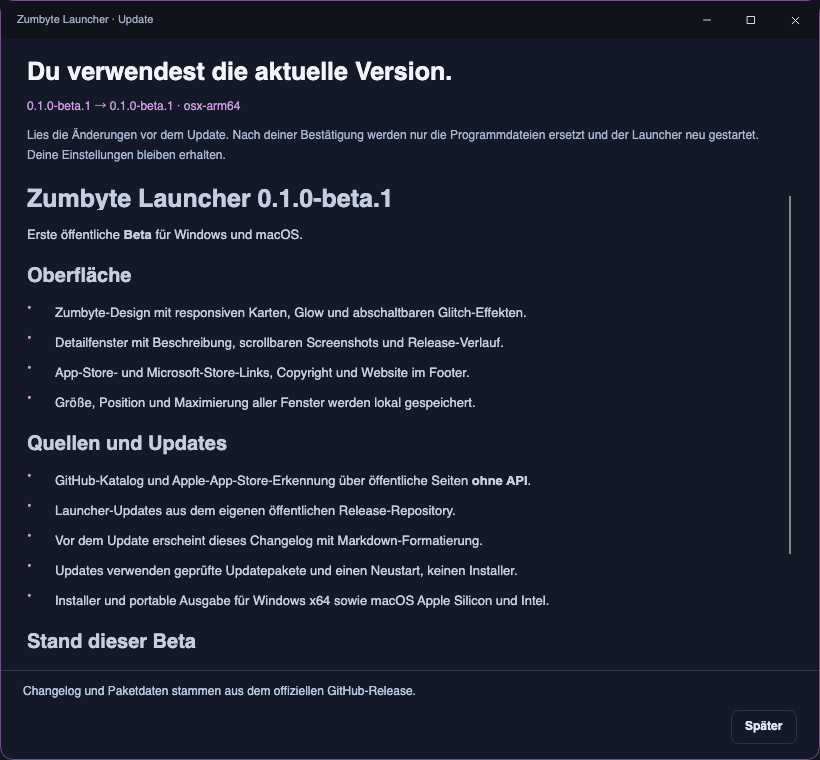
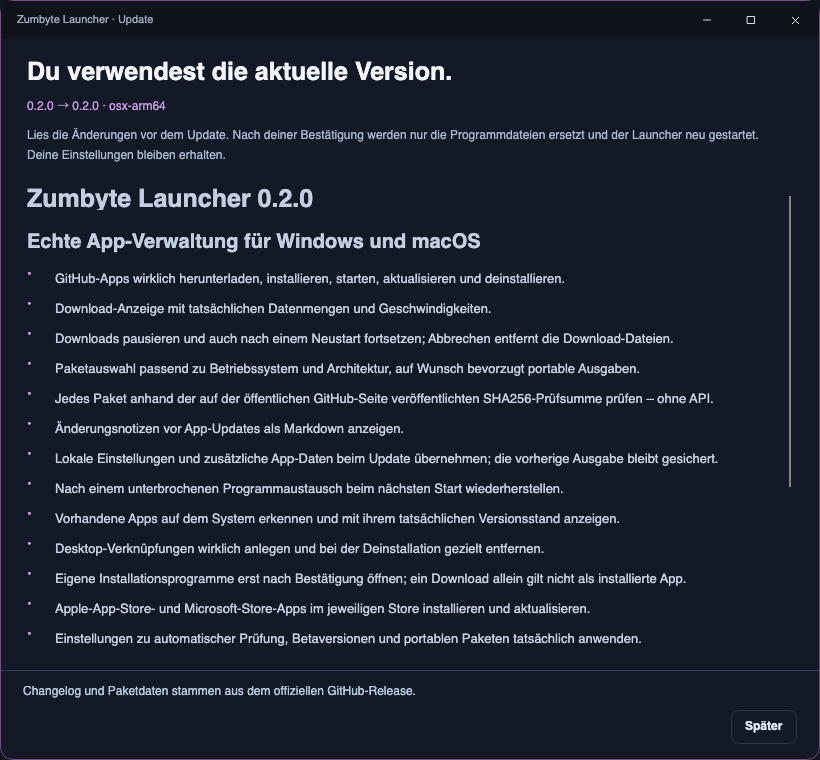
Document real app management in launcher 0.2.0

Changed region(s): [[0.0305, 0.3026, 0.8841, 0.8776], [0.061, 0.1211, 0.3049, 0.1513], [0.3354, 0.2421, 0.4878, 0.2724]]

diff --git a/README.md b/README.md
@@ -12,9 +12,9 @@ Die [Releases](https://github.com/ZUMBYTE-AppSolution/launcher-releases/releases
 
 | Plattform | Erstinstallation | Portable Ausgabe | Spätere Updates |
 |---|---|---|---|
-| Windows x64 | `win-beta-Setup.exe` | `win-beta-Portable.zip` | Vollständiges Updatepaket, ohne Installer |
-| macOS Apple Silicon | `osx-arm64-beta-Setup.pkg` | `osx-arm64-beta-Portable.zip` | Vollständiges Updatepaket, ohne Installer |
-| macOS Intel | `osx-x64-beta-Setup.pkg` | `osx-x64-beta-Portable.zip` | Vollständiges Updatepaket, ohne Installer |
+| Windows x64 | `win-release-Setup.exe` | `win-release-Portable.zip` | Vollständiges Updatepaket, ohne Installer |
+| macOS Apple Silicon | `osx-arm64-release-Setup.pkg` | `osx-arm64-release-Portable.zip` | Vollständiges Updatepaket, ohne Installer |
+| macOS Intel | `osx-x64-release-Setup.pkg` | `osx-x64-release-Portable.zip` | Vollständiges Updatepaket, ohne Installer |
 
 Die .NET-Laufzeit ist enthalten. macOS setzt Version 14 oder neuer voraus. Windows setzt Windows 10 x64 oder neuer voraus. Mac-Ausgaben sind mit Developer ID signiert und von Apple notarisiert. Windows-Pakete sind derzeit unsigniert; Windows kann beim ersten Start einen Hinweis anzeigen.
 
@@ -36,9 +36,11 @@ Der Launcher prüft Version, Betriebssystem, Architektur, Paketgröße und SHA25
 
 Jeder Release enthält `CHANGELOG.md`, `SHA256SUMS.txt`, Plattform-Feeds und vollständige Updatepakete. Die Dateien unter `updates/` enthalten ausschließlich öffentliche Release-Metadaten.
 
-## Stand der ersten Beta
+## App-Verwaltung ab Version 0.2.0
 
-Die Katalogerkennung, Bilder, Detailfenster, Store-Links und der Launcher-Updater sind integriert. **Download, Installation, Start und Deinstallation anderer GitHub-Apps sind weiterhin eine markierte Bedienvorschau.** Store-Apps werden vom jeweiligen Store verwaltet. Diese Beta meldet beim ersten Start keine Apps fälschlich als installiert.
+GitHub-Apps werden wirklich heruntergeladen, geprüft, installiert und gestartet. Pause und Fortsetzung funktionieren auch nach einem Neustart. Vor App-Updates erscheinen die Änderungsnotizen als Markdown. Lokale Daten bleiben beim Update erhalten; die vorherige Ausgabe wird im App-Hauptordner unter `.zumbyte-backups` gesichert. Eine Deinstallation entfernt die verwalteten Programmdateien und behält persönliche Dateien separat.
+
+Der Launcher erkennt vorhandene Systeminstallationen. Apps mit eigenem Installer werden über diesen eingerichtet; der fertige Download wird erst nach tatsächlicher Erkennung als installierte App angezeigt. Store-Apps verwenden den jeweiligen nativen Store für Installation und Updates. Desktop-Verknüpfungen, Installationspfad und Update-Einstellungen sind funktionsfähig. Frühere Releases bis 0.1.0-beta.1 enthielten noch eine Bedienvorschau der App-Verwaltung.
 
 Dieses Repository enthält Produktbeschreibung, Bilder, Changelogs und fertige Downloads. Der Anwendungsquellcode wird separat verwaltet.
 
